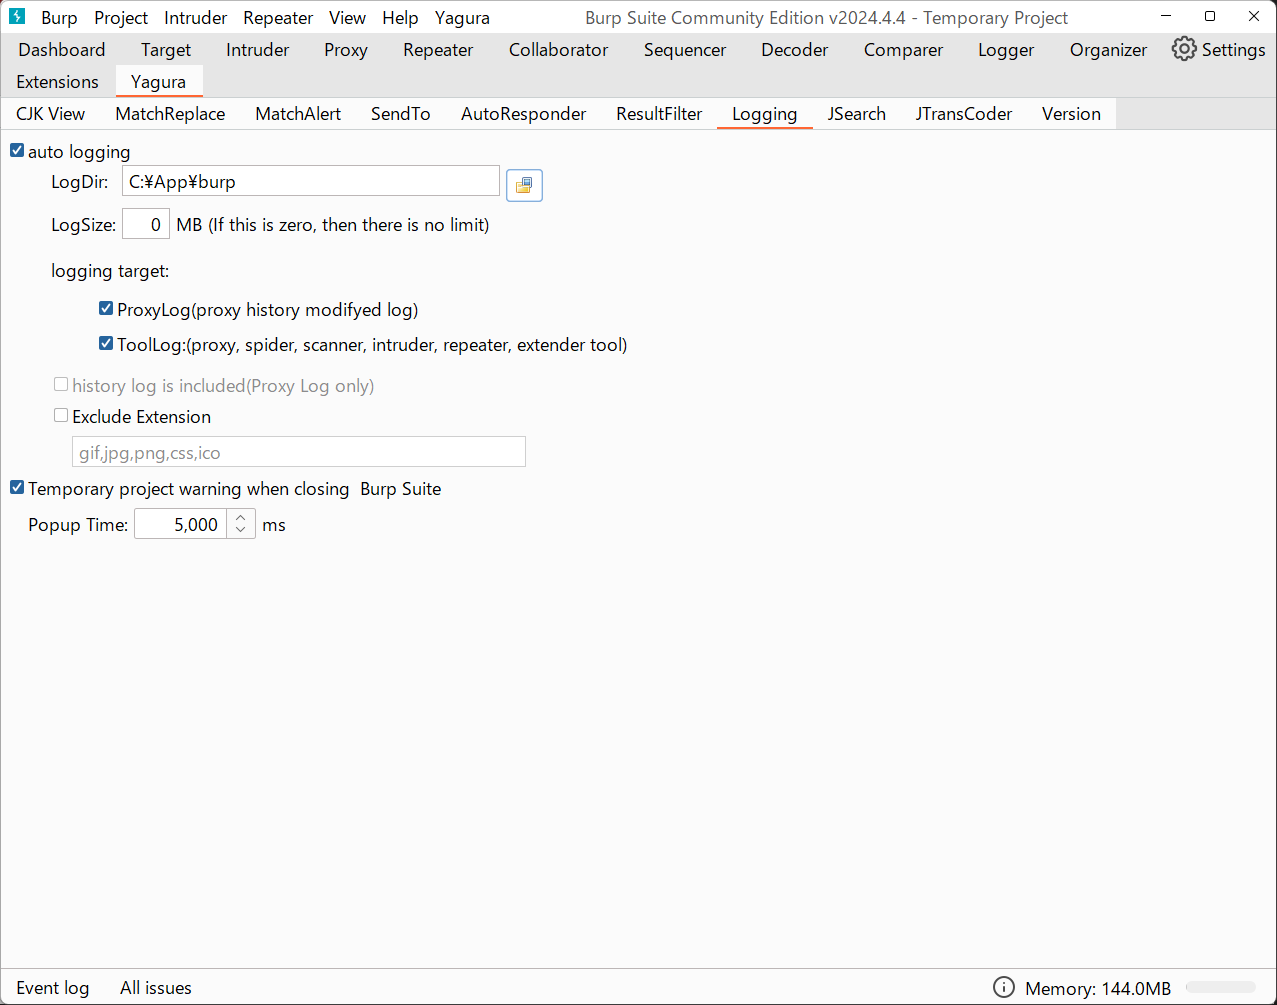
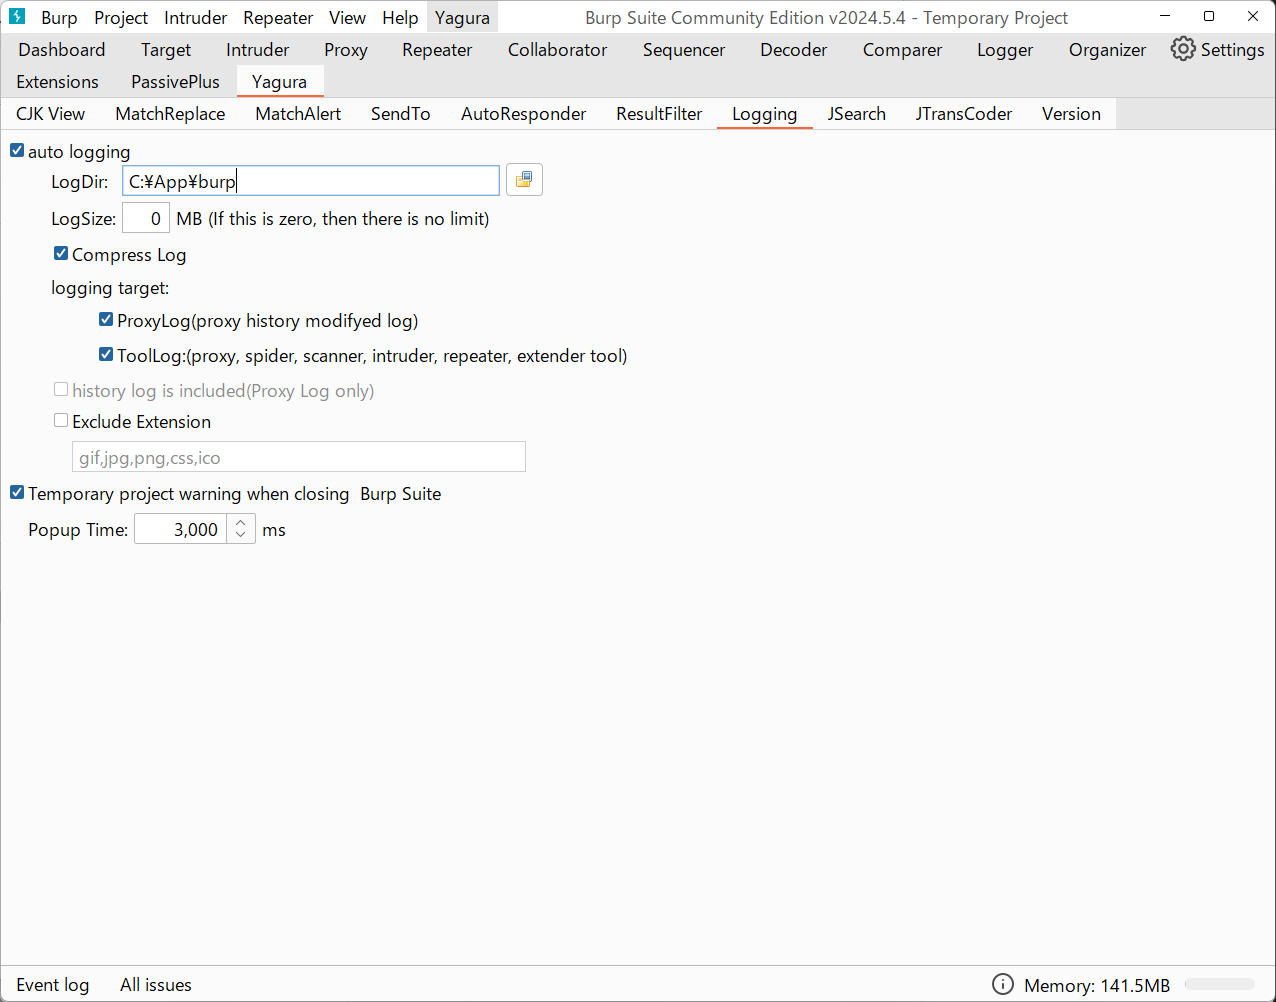
Help logging update

diff --git a/help/help.html b/help/help.html
@@ -508,6 +508,7 @@ body.book #toc,body.book #preamble,body.book h1.sect0,body.book .sect1>h2{page-b
 <li><a href="#_logging">3.7.1. Logging</a>
 <ul class="sectlevel4">
 <li><a href="#_logging_target">Logging target</a></li>
+<li><a href="#_temporary_project">Temporary project</a></li>
 </ul>
 </li>
 </ul>
@@ -1692,6 +1693,14 @@ proxy-message.log.2
 <div class="paragraph">
 <p>If you specify 0, there is no upper limit.</p>
 </div>
+<div class="dlist">
+<dl>
+<dt class="hdlist1">Compress Log</dt>
+<dd>
+<p>Compresses logs.</p>
+</dd>
+</dl>
+</div>
 <div class="sect4">
 <h5 id="_logging_target">Logging target</h5>
 <div class="dlist">
@@ -1713,13 +1722,20 @@ If checked, all logs currently recorded in History are recorded in a file.</p>
 <dd>
 <p>Exclude the configured extension from logging.</p>
 </dd>
+</dl>
+</div>
+</div>
+<div class="sect4">
+<h5 id="_temporary_project">Temporary project</h5>
+<div class="dlist">
+<dl>
 <dt class="hdlist1">[Temporary project warning when closing  Burp Suite]  check box</dt>
 <dd>
 <p>If you try to close Burp in the Temporary project state, a pop-up warning will be displayed.</p>
 </dd>
 <dt class="hdlist1">[Popup Time] </dt>
 <dd>
-<p>Specify the time of popup between 1000 ms and 10000 ms. The default is 5000 ms.</p>
+<p>Specify the time of popup between 1000 ms and 10000 ms. The default is 3000 ms.</p>
 </dd>
 </dl>
 </div>
@@ -2648,7 +2664,7 @@ This may not work for items that contain binaries. In that case, please use Bina
 <div id="footer">
 <div id="footer-text">
 Version unspecified<br>
-Last updated 2024-05-31 07:36:30 +0900
+Last updated 2024-07-03 21:41:43 +0900
 </div>
 </div>
 </body>

diff --git a/help/help-ja.html b/help/help-ja.html
@@ -1670,6 +1670,14 @@ proxy-message.log.2
 <div class="paragraph">
 <p>0を指定した場合は上限はありません。</p>
 </div>
+<div class="dlist">
+<dl>
+<dt class="hdlist1">Compress Log</dt>
+<dd>
+<p>ログを圧縮します｡</p>
+</dd>
+</dl>
+</div>
 <div class="sect4">
 <h5 id="_logging_target">Logging target</h5>
 <div class="dlist">
@@ -1691,13 +1699,20 @@ proxy-message.log.2
 <dd>
 <p>設定された拡張子をロギングから除外します。</p>
 </dd>
+</dl>
+</div>
+</div>
+<div class="sect4">
+<h5 id="_temporary_project">Temporary project</h5>
+<div class="dlist">
+<dl>
 <dt class="hdlist1">[Temporary project warning when closing  Burp Suite] チェックボックス</dt>
 <dd>
 <p>Temporary projectの状態でBurpを閉じようとするとポップアップによる警告を表示します。</p>
 </dd>
 <dt class="hdlist1">[Popup Time] </dt>
 <dd>
-<p>Popupしている時間を1000 ms から10000 ms までの間で指定します。デフォルトは5000 msです。</p>
+<p>Popupしている時間を 1000 ms から 10000 ms までの間で指定します。デフォルトは 3000 msです。</p>
 </dd>
 </dl>
 </div>
@@ -2617,7 +2632,7 @@ Bodyの内容をそのまま送信したい場合に選択します。<br>
 <div id="footer">
 <div id="footer-text">
 Version unspecified<br>
-Last updated 2024-05-31 07:36:30 +0900
+Last updated 2024-07-03 21:40:47 +0900
 </div>
 </div>
 </body>
